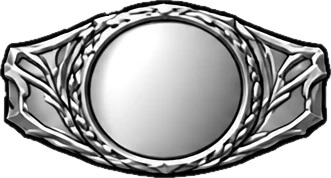
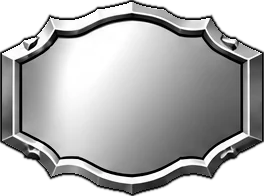
Sharper plates: pack 4 redone on black background (M11-M26)
Claude-Session: https://claude.ai/code/session_01JMGDYo9Tn5ptwk73cyh8LT

diff --git a/src/plimg_data.js b/src/plimg_data.js
@@ -1,2 +1,2 @@
 /* plate and strap shading maps: grey + alpha WebP files in plates/, tinted per colour at draw time */
-const PLIMG={"c:oval":[307,212,"plates/c_oval.webp"],"c:round":[243,224,"plates/c_round.webp"],"c:shield":[246,213,"plates/c_shield.webp"],"c:diamond":[265,234,"plates/c_diamond.webp"],"c:hex":[276,210,"plates/c_hex.webp"],"c:octagon":[247,213,"plates/c_octagon.webp"],"c:star":[242,229,"plates/c_star.webp"],"c:rect":[288,188,"plates/c_rect.webp"],"c:pill":[316,158,"plates/c_pill.webp"],"c:wide":[299,178,"plates/c_wide.webp"],"c:tall":[182,225,"plates/c_tall.webp"],"c:chamfer":[280,213,"plates/c_chamfer.webp"],"c:arch":[278,220,"plates/c_arch.webp"],"c:crest":[252,226,"plates/c_crest.webp"],"c:pointed":[241,216,"plates/c_pointed.webp"],"c:pentagon":[248,226,"plates/c_pentagon.webp"],"c:heptagon":[263,239,"plates/c_heptagon.webp"],"c:decagon":[244,240,"plates/c_decagon.webp"],"c:dodeca":[252,241,"plates/c_dodeca.webp"],"c:burst":[264,248,"plates/c_burst.webp"],"c:sun":[259,237,"plates/c_sun.webp"],"c:gear":[257,236,"plates/c_gear.webp"],"c:scallop":[259,237,"plates/c_scallop.webp"],"c:flower":[272,228,"plates/c_flower.webp"],"c:clover":[261,236,"plates/c_clover.webp"],"c:cross":[234,227,"plates/c_cross.webp"],"c:maltese":[241,225,"plates/c_maltese.webp"],"c:wings":[261,233,"plates/c_wings.webp"],"c:crown":[291,222,"plates/c_crown.webp"],"c:kite":[257,232,"plates/c_kite.webp"],"c:trap":[307,209,"plates/c_trap.webp"],"c:para":[286,210,"plates/c_para.webp"],"c:lens":[278,203,"plates/c_lens.webp"],"c:hexv":[222,220,"plates/c_hexv.webp"],"c:hexw":[305,196,"plates/c_hexw.webp"],"c:homep":[271,214,"plates/c_homep.webp"],"c:ornate":[259,209,"plates/c_ornate.webp"],"c:diamw":[273,223,"plates/c_diamw.webp"],"M1":[316,165,"plates/M1.webp"],"M2":[313,164,"plates/M2.webp"],"M3":[311,158,"plates/M3.webp"],"M4":[313,168,"plates/M4.webp"],"M5":[313,171,"plates/M5.webp"],"M6":[321,164,"plates/M6.webp"],"M7":[312,164,"plates/M7.webp"],"M8":[324,164,"plates/M8.webp"],"M9":[310,193,"plates/M9.webp"],"M10":[325,176,"plates/M10.webp"],"M11":[331,178,"plates/M11.webp"],"M12":[327,198,"plates/M12.webp"],"M13":[336,178,"plates/M13.webp"],"M14":[326,178,"plates/M14.webp"],"M15":[331,181,"plates/M15.webp"],"M16":[335,185,"plates/M16.webp"],"M17":[336,187,"plates/M17.webp"],"M18":[327,185,"plates/M18.webp"],"M19":[336,177,"plates/M19.webp"],"M20":[327,174,"plates/M20.webp"],"M21":[331,178,"plates/M21.webp"],"M22":[335,176,"plates/M22.webp"],"M23":[336,199,"plates/M23.webp"],"M24":[325,184,"plates/M24.webp"],"M25":[328,177,"plates/M25.webp"],"M26":[337,174,"plates/M26.webp"],"M27":[322,179,"plates/M27.webp"],"M28":[311,181,"plates/M28.webp"],"M29":[307,190,"plates/M29.webp"],"M30":[321,180,"plates/M30.webp"],"M31":[289,215,"plates/M31.webp"],"M32":[307,188,"plates/M32.webp"],"M33":[324,202,"plates/M33.webp"],"M34":[214,219,"plates/M34.webp"],"M35":[251,218,"plates/M35.webp"],"M36":[291,215,"plates/M36.webp"],"M37":[272,208,"plates/M37.webp"],"M38":[313,167,"plates/M38.webp"],"M39":[321,168,"plates/M39.webp"],"M40":[293,217,"plates/M40.webp"],"M41":[297,181,"plates/M41.webp"],"M42":[322,119,"plates/M42.webp"],"T1":[187,230,"plates/T1.webp"],"T2":[235,221,"plates/T2.webp"],"T3":[218,237,"plates/T3.webp"],"T4":[208,231,"plates/T4.webp"],"T5":[271,212,"plates/T5.webp"],"T6":[246,213,"plates/T6.webp"],"T7":[251,212,"plates/T7.webp"],"T8":[234,234,"plates/T8.webp"],"T9":[253,241,"plates/T9.webp"],"T10":[236,227,"plates/T10.webp"],"T11":[238,229,"plates/T11.webp"],"T12":[246,232,"plates/T12.webp"],"T13":[211,219,"plates/T13.webp"],"T14":[195,223,"plates/T14.webp"],"T15":[209,232,"plates/T15.webp"],"T16":[217,227,"plates/T16.webp"],"T17":[97,134,"plates/T17.webp"],"T18":[99,143,"plates/T18.webp"],"T19":[126,133,"plates/T19.webp"],"T20":[118,119,"plates/T20.webp"],"T21":[123,134,"plates/T21.webp"],"T22":[87,131,"plates/T22.webp"],"T23":[109,114,"plates/T23.webp"],"T24":[150,124,"plates/T24.webp"],"T25":[135,87,"plates/T25.webp"],"T26":[90,132,"plates/T26.webp"],"T27":[128,141,"plates/T27.webp"],"T28":[112,136,"plates/T28.webp"],"T29":[150,91,"plates/T29.webp"],"T30":[136,122,"plates/T30.webp"],"T31":[89,123,"plates/T31.webp"],"T32":[119,116,"plates/T32.webp"],"T33":[156,95,"plates/T33.webp"],"T34":[111,122,"plates/T34.webp"],"T35":[213,93,"plates/T35.webp"],"T36":[157,99,"plates/T36.webp"],"T37":[141,88,"plates/T37.webp"],"T38":[187,97,"plates/T38.webp"],"T39":[140,95,"plates/T39.webp"],"T40":[176,89,"plates/T40.webp"],"T41":[166,100,"plates/T41.webp"],"T42":[182,98,"plates/T42.webp"],"T43":[215,108,"plates/T43.webp"],"T44":[73,100,"plates/T44.webp"],"T45":[100,99,"plates/T45.webp"],"T46":[144,119,"plates/T46.webp"],"T47":[165,115,"plates/T47.webp"],"T48":[141,87,"plates/T48.webp"],"T49":[158,95,"plates/T49.webp"],"T50":[168,73,"plates/T50.webp"],"T51":[147,107,"plates/T51.webp"],"T52":[156,107,"plates/T52.webp"],"T53":[185,112,"plates/T53.webp"],"T54":[139,94,"plates/T54.webp"],"T55":[163,116,"plates/T55.webp"],"T56":[200,85,"plates/T56.webp"],"T57":[149,122,"plates/T57.webp"],"T58":[144,104,"plates/T58.webp"],"T59":[140,122,"plates/T59.webp"],"T60":[128,124,"plates/T60.webp"],"T61":[160,107,"plates/T61.webp"],"T62":[114,122,"plates/T62.webp"],"T63":[162,110,"plates/T63.webp"],"S:plain":[554,90,"plates/S_plain.webp"],"S:stripe":[523,85,"plates/S_stripe.webp"],"S:dual":[511,83,"plates/S_dual.webp"],"S:checker":[517,84,"plates/S_checker.webp"],"S:zigzag":[486,79,"plates/S_zigzag.webp"],"S:diamond":[517,84,"plates/S_diamond.webp"],"S:dots":[517,84,"plates/S_dots.webp"],"S:wave":[529,86,"plates/S_wave.webp"],"S:stitch":[455,74,"plates/S_stitch.webp"],"S:barbed":[548,89,"plates/S_barbed.webp"]};
+const PLIMG={"c:oval":[307,212,"plates/c_oval.webp"],"c:round":[243,224,"plates/c_round.webp"],"c:shield":[246,213,"plates/c_shield.webp"],"c:diamond":[265,234,"plates/c_diamond.webp"],"c:hex":[276,210,"plates/c_hex.webp"],"c:octagon":[247,213,"plates/c_octagon.webp"],"c:star":[242,229,"plates/c_star.webp"],"c:rect":[288,188,"plates/c_rect.webp"],"c:pill":[316,158,"plates/c_pill.webp"],"c:wide":[299,178,"plates/c_wide.webp"],"c:tall":[182,225,"plates/c_tall.webp"],"c:chamfer":[280,213,"plates/c_chamfer.webp"],"c:arch":[278,220,"plates/c_arch.webp"],"c:crest":[252,226,"plates/c_crest.webp"],"c:pointed":[241,216,"plates/c_pointed.webp"],"c:pentagon":[248,226,"plates/c_pentagon.webp"],"c:heptagon":[263,239,"plates/c_heptagon.webp"],"c:decagon":[244,240,"plates/c_decagon.webp"],"c:dodeca":[252,241,"plates/c_dodeca.webp"],"c:burst":[264,248,"plates/c_burst.webp"],"c:sun":[259,237,"plates/c_sun.webp"],"c:gear":[257,236,"plates/c_gear.webp"],"c:scallop":[259,237,"plates/c_scallop.webp"],"c:flower":[272,228,"plates/c_flower.webp"],"c:clover":[261,236,"plates/c_clover.webp"],"c:cross":[234,227,"plates/c_cross.webp"],"c:maltese":[241,225,"plates/c_maltese.webp"],"c:wings":[261,233,"plates/c_wings.webp"],"c:crown":[291,222,"plates/c_crown.webp"],"c:kite":[257,232,"plates/c_kite.webp"],"c:trap":[307,209,"plates/c_trap.webp"],"c:para":[286,210,"plates/c_para.webp"],"c:lens":[278,203,"plates/c_lens.webp"],"c:hexv":[222,220,"plates/c_hexv.webp"],"c:hexw":[305,196,"plates/c_hexw.webp"],"c:homep":[271,214,"plates/c_homep.webp"],"c:ornate":[259,209,"plates/c_ornate.webp"],"c:diamw":[273,223,"plates/c_diamw.webp"],"M1":[316,165,"plates/M1.webp"],"M2":[313,164,"plates/M2.webp"],"M3":[311,158,"plates/M3.webp"],"M4":[313,168,"plates/M4.webp"],"M5":[313,171,"plates/M5.webp"],"M6":[321,164,"plates/M6.webp"],"M7":[312,164,"plates/M7.webp"],"M8":[324,164,"plates/M8.webp"],"M9":[310,193,"plates/M9.webp"],"M10":[325,176,"plates/M10.webp"],"M11":[339,179,"plates/M11.webp"],"M12":[320,185,"plates/M12.webp"],"M13":[335,183,"plates/M13.webp"],"M14":[327,176,"plates/M14.webp"],"M15":[317,206,"plates/M15.webp"],"M16":[331,184,"plates/M16.webp"],"M17":[329,189,"plates/M17.webp"],"M18":[326,192,"plates/M18.webp"],"M19":[341,176,"plates/M19.webp"],"M20":[320,186,"plates/M20.webp"],"M21":[264,196,"plates/M21.webp"],"M22":[338,177,"plates/M22.webp"],"M23":[341,201,"plates/M23.webp"],"M24":[321,188,"plates/M24.webp"],"M25":[314,175,"plates/M25.webp"],"M26":[328,172,"plates/M26.webp"],"M27":[322,179,"plates/M27.webp"],"M28":[311,181,"plates/M28.webp"],"M29":[307,190,"plates/M29.webp"],"M30":[321,180,"plates/M30.webp"],"M31":[289,215,"plates/M31.webp"],"M32":[307,188,"plates/M32.webp"],"M33":[324,202,"plates/M33.webp"],"M34":[214,219,"plates/M34.webp"],"M35":[251,218,"plates/M35.webp"],"M36":[291,215,"plates/M36.webp"],"M37":[272,208,"plates/M37.webp"],"M38":[313,167,"plates/M38.webp"],"M39":[321,168,"plates/M39.webp"],"M40":[293,217,"plates/M40.webp"],"M41":[297,181,"plates/M41.webp"],"M42":[322,119,"plates/M42.webp"],"T1":[187,230,"plates/T1.webp"],"T2":[235,221,"plates/T2.webp"],"T3":[218,237,"plates/T3.webp"],"T4":[208,231,"plates/T4.webp"],"T5":[271,212,"plates/T5.webp"],"T6":[246,213,"plates/T6.webp"],"T7":[251,212,"plates/T7.webp"],"T8":[234,234,"plates/T8.webp"],"T9":[253,241,"plates/T9.webp"],"T10":[236,227,"plates/T10.webp"],"T11":[238,229,"plates/T11.webp"],"T12":[246,232,"plates/T12.webp"],"T13":[211,219,"plates/T13.webp"],"T14":[195,223,"plates/T14.webp"],"T15":[209,232,"plates/T15.webp"],"T16":[217,227,"plates/T16.webp"],"T17":[97,134,"plates/T17.webp"],"T18":[99,143,"plates/T18.webp"],"T19":[126,133,"plates/T19.webp"],"T20":[118,119,"plates/T20.webp"],"T21":[123,134,"plates/T21.webp"],"T22":[87,131,"plates/T22.webp"],"T23":[109,114,"plates/T23.webp"],"T24":[150,124,"plates/T24.webp"],"T25":[135,87,"plates/T25.webp"],"T26":[90,132,"plates/T26.webp"],"T27":[128,141,"plates/T27.webp"],"T28":[112,136,"plates/T28.webp"],"T29":[150,91,"plates/T29.webp"],"T30":[136,122,"plates/T30.webp"],"T31":[89,123,"plates/T31.webp"],"T32":[119,116,"plates/T32.webp"],"T33":[156,95,"plates/T33.webp"],"T34":[111,122,"plates/T34.webp"],"T35":[213,93,"plates/T35.webp"],"T36":[157,99,"plates/T36.webp"],"T37":[141,88,"plates/T37.webp"],"T38":[187,97,"plates/T38.webp"],"T39":[140,95,"plates/T39.webp"],"T40":[176,89,"plates/T40.webp"],"T41":[166,100,"plates/T41.webp"],"T42":[182,98,"plates/T42.webp"],"T43":[215,108,"plates/T43.webp"],"T44":[73,100,"plates/T44.webp"],"T45":[100,99,"plates/T45.webp"],"T46":[144,119,"plates/T46.webp"],"T47":[165,115,"plates/T47.webp"],"T48":[141,87,"plates/T48.webp"],"T49":[158,95,"plates/T49.webp"],"T50":[168,73,"plates/T50.webp"],"T51":[147,107,"plates/T51.webp"],"T52":[156,107,"plates/T52.webp"],"T53":[185,112,"plates/T53.webp"],"T54":[139,94,"plates/T54.webp"],"T55":[163,116,"plates/T55.webp"],"T56":[200,85,"plates/T56.webp"],"T57":[149,122,"plates/T57.webp"],"T58":[144,104,"plates/T58.webp"],"T59":[140,122,"plates/T59.webp"],"T60":[128,124,"plates/T60.webp"],"T61":[160,107,"plates/T61.webp"],"T62":[114,122,"plates/T62.webp"],"T63":[162,110,"plates/T63.webp"],"S:plain":[554,90,"plates/S_plain.webp"],"S:stripe":[523,85,"plates/S_stripe.webp"],"S:dual":[511,83,"plates/S_dual.webp"],"S:checker":[517,84,"plates/S_checker.webp"],"S:zigzag":[486,79,"plates/S_zigzag.webp"],"S:diamond":[517,84,"plates/S_diamond.webp"],"S:dots":[517,84,"plates/S_dots.webp"],"S:wave":[529,86,"plates/S_wave.webp"],"S:stitch":[455,74,"plates/S_stitch.webp"],"S:barbed":[548,89,"plates/S_barbed.webp"]};

diff --git a/scripts/import_plate_pack.py b/scripts/import_plate_pack.py
@@ -8,7 +8,10 @@ raw=Image.open(img);HASA=raw.mode=='RGBA' and np.array(raw)[:,:,3].min()<10
 im=raw.convert('RGB');A=np.array(im).astype(float)
 AL=np.array(raw)[:,:,3] if HASA else None
 L=0.299*A[:,:,0]+0.587*A[:,:,1]+0.114*A[:,:,2]
-dark=ndi.binary_closing((AL>40) if HASA else (L<float(__import__('os').environ.get('TH','22'))),iterations=int(__import__('os').environ.get('IT','2')));fill=ndi.binary_fill_holes(dark)
+import os
+THV=float(os.environ.get('TH','22'))
+src=(L>THV) if os.environ.get('BLACKBG') else ((AL>40) if HASA else (L<THV))
+dark=ndi.binary_closing(src,iterations=int(os.environ.get('IT','2')));fill=ndi.binary_fill_holes(dark)
 lab,n=ndi.label(fill)
 objs=[(i+1,s) for i,s in enumerate(ndi.find_objects(lab)) if (lab[s]==i+1).sum()>8000]
 assert len(objs)==len(keys),(len(objs),len(keys))
